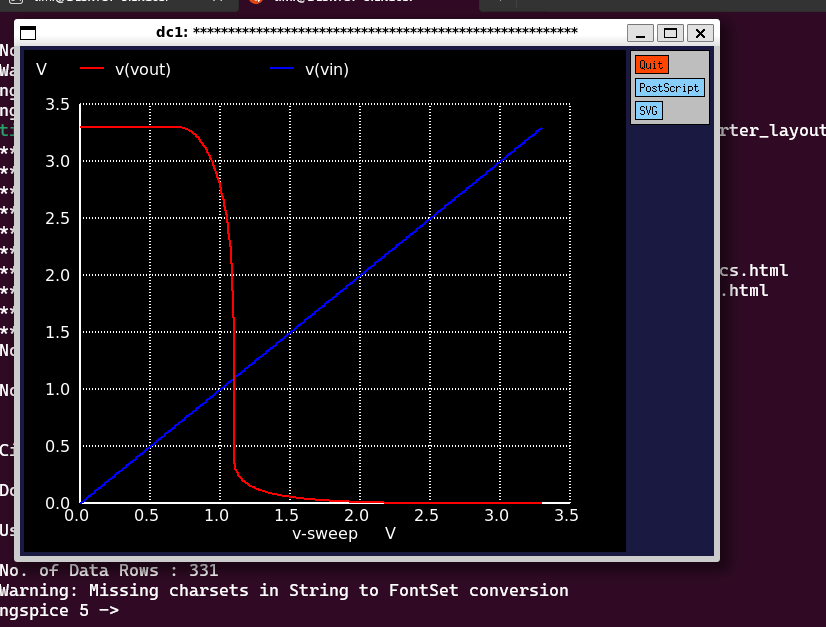
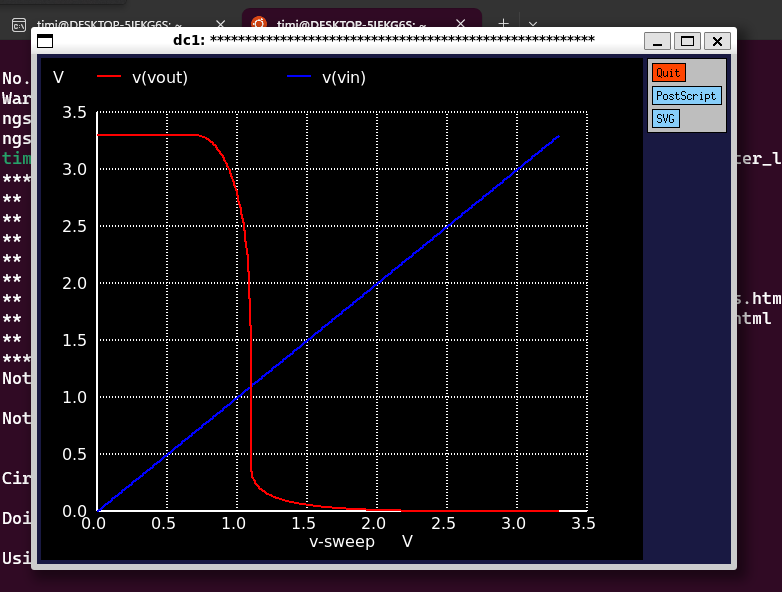
add VTC for case 2(Wp >> Wn) image

diff --git a/CMOS inverter DC analysis/README.md b/CMOS inverter DC analysis/README.md
@@ -1,4 +1,4 @@
-# 🔌 CMOS Inverter DC Analysis (ngspice)
+# CMOS Inverter DC Analysis (ngspice)
 
 This project demonstrates the DC sweep (Voltage Transfer Characteristic) analysis of a CMOS inverter using **ngspice** and Sky130 device models. It investigates the inverter switching threshold and the impact of transistor sizing on noise margin and performance.
 
@@ -84,7 +84,7 @@ Vm ≈ 1.6 – 1.7 V (for VDD = 3.3 V)
 ### Case 1: PMOS width smaller than NMOS (Wp < Wn)
 
 ![alt text](VTC_case1.png)
-
+#### Wp = 0.2u Wn = 1u 
 * Switching point shifts left
 * Reduced noise margin for logic '0'
 * Skewed VTC curve
@@ -95,6 +95,9 @@ Vm ≈ 1.6 – 1.7 V (for VDD = 3.3 V)
 
 ### Case 2: PMOS width larger than NMOS (Wp >> Wn)
 
+![alt text](VTC_case2.png)
+
+#### Wp = 13u Wn = 1u
 * Switching point shifts right
 * Reduced noise margin for logic '1'
 * Narrow valid high-input range
